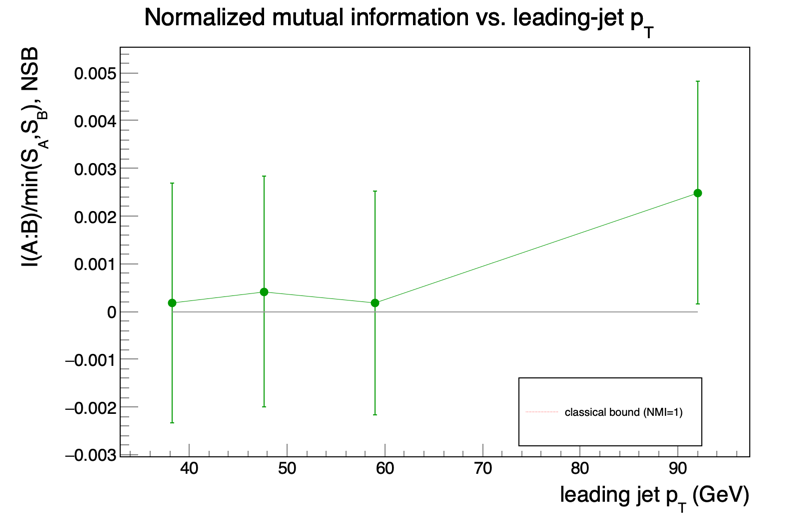
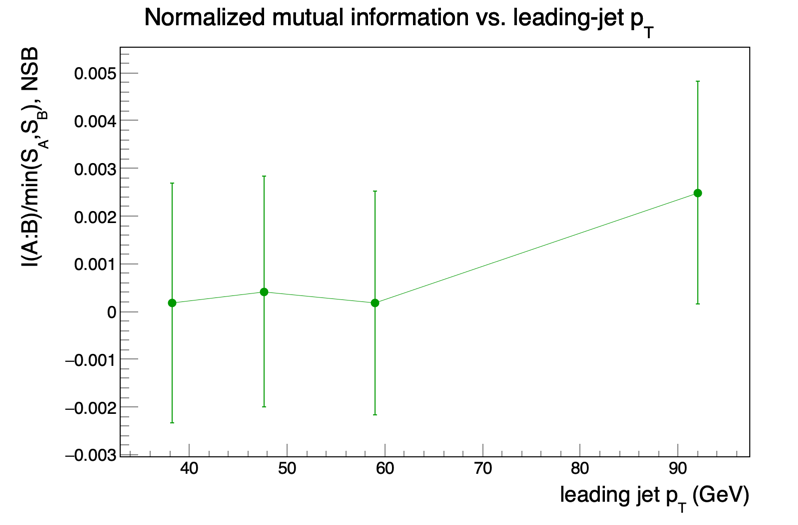
update with a run script

diff --git a/analysis/analyze_dijet_entropy.C b/analysis/analyze_dijet_entropy.C
@@ -895,7 +895,11 @@ void plotMethodComparisonVsPt(const std::vector<double>& ptMid,
     leg1->AddEntry(gS, "shuffle", "lep");
     leg1->AddEntry(gB, "NSB", "lep");
     leg1->Draw();
-    TLine* zeroLine1 = new TLine(ptMid.front()-span, 0, ptMid.back()+span, 0);
+    // Use the ACTUAL rendered x-axis range (queried after Draw), not a
+    // manually-estimated span -- guarantees the line spans exactly
+    // edge-to-edge with no overshoot or gap, regardless of how
+    // TMultiGraph auto-computed its x-range.
+    TLine* zeroLine1 = new TLine(gPad->GetUxmin(), 0, gPad->GetUxmax(), 0);
     zeroLine1->SetLineColor(kGray+1);
     zeroLine1->Draw();
     c1->SaveAs(outPrefix + "_method_comparison_MI_vs_pt.png");
@@ -933,7 +937,7 @@ void plotMethodComparisonVsPt(const std::vector<double>& ptMid,
     leg2->AddEntry(gM2, "Miller-Madow", "lep");
     leg2->AddEntry(gB2, "NSB", "lep");
     leg2->Draw();
-    TLine* zeroLine2 = new TLine(ptMid.front()-span, 0, ptMid.back()+span, 0);
+    TLine* zeroLine2 = new TLine(gPad->GetUxmin(), 0, gPad->GetUxmax(), 0);
     zeroLine2->SetLineColor(kRed);
     zeroLine2->SetLineStyle(3);
     zeroLine2->Draw();
@@ -990,7 +994,7 @@ void plotMethodComparisonNMIVsPt(const std::vector<double>& ptMid,
     leg->AddEntry(gM, "Miller-Madow", "lep");
     leg->AddEntry(gB, "NSB", "lep");
     leg->Draw();
-    TLine* oneLine = new TLine(ptMid.front()-span, 1, ptMid.back()+span, 1);
+    TLine* oneLine = new TLine(gPad->GetUxmin(), 1, gPad->GetUxmax(), 1);
     oneLine->SetLineColor(kRed);
     oneLine->SetLineStyle(3);
     oneLine->Draw();
@@ -1091,12 +1095,20 @@ void ptDifferentialAnalysis(const std::vector<int>& nA, const std::vector<int>& 
             yMin = std::min({yMin, S_A[i]-S_A_e[i], S_B[i]-S_B_e[i], S_AB[i]-S_AB_e[i]});
         }
         double range = yMax - yMin;
-        mg->SetMaximum(yMax + 0.30*range);
+        // Modest headroom only -- S_AB sits well above S_A/S_B across the
+        // whole pT range, leaving a large natural gap between them, so
+        // the legend goes there instead of needing extra top margin
+        // (previously 30%, which left roughly half the plot empty above
+        // the data for no real reason).
+        mg->SetMaximum(yMax + 0.08*range);
         mg->SetMinimum(yMin - 0.05*range);
     }
 
     mg->Draw("APL");
-    TLegend* leg1 = new TLegend(0.65, 0.7, 0.88, 0.88);
+    // Positioned in the empty band between the S_AB curve (high) and the
+    // S_A/S_B curves (low), rather than above everything -- avoids
+    // wasting vertical range on headroom purely for legend space.
+    TLegend* leg1 = new TLegend(0.38, 0.42, 0.65, 0.58);
     leg1->AddEntry(gA, "S_{A} (leading)", "lep");
     leg1->AddEntry(gB, "S_{B} (subleading)", "lep");
     leg1->AddEntry(gAB, "S_{AB} (joint)", "lep");
@@ -1110,6 +1122,9 @@ void ptDifferentialAnalysis(const std::vector<int>& nA, const std::vector<int>& 
     gI->SetLineColor(kViolet+1); gI->SetMarkerColor(kViolet+1); gI->SetMarkerStyle(20);
     gI->SetTitle("Mutual information vs. leading-jet p_{T};leading jet p_{T} (GeV);I(A:B) (nats), NSB");
     gI->Draw("APL");
+    TLine* zeroLineMI = new TLine(gPad->GetUxmin(), 0, gPad->GetUxmax(), 0);
+    zeroLineMI->SetLineColor(kGray+1);
+    zeroLineMI->Draw();
     c2->SaveAs(outPrefix + "_MI_vs_pt.png");
     std::cout << "  saved " << outPrefix << "_MI_vs_pt.png\n";
 
@@ -1119,7 +1134,7 @@ void ptDifferentialAnalysis(const std::vector<int>& nA, const std::vector<int>& 
     gSBA->SetLineColor(kMagenta+2); gSBA->SetMarkerColor(kMagenta+2); gSBA->SetMarkerStyle(20);
     gSBA->SetTitle("Conditional entropy vs. leading-jet p_{T};leading jet p_{T} (GeV);S(B|A) (nats), NSB");
     gSBA->Draw("APL");
-    TLine* zeroLine = new TLine(ptMid.front(), 0, ptMid.back(), 0);
+    TLine* zeroLine = new TLine(gPad->GetUxmin(), 0, gPad->GetUxmax(), 0);
     zeroLine->SetLineColor(kRed);
     zeroLine->SetLineStyle(3);
     zeroLine->Draw();
@@ -1132,16 +1147,14 @@ void ptDifferentialAnalysis(const std::vector<int>& nA, const std::vector<int>& 
     gNMI->SetLineColor(kGreen+2); gNMI->SetMarkerColor(kGreen+2); gNMI->SetMarkerStyle(20);
     gNMI->SetTitle("Normalized mutual information vs. leading-jet p_{T};leading jet p_{T} (GeV);I(A:B)/min(S_{A},S_{B}), NSB");
     gNMI->Draw("APL");
-    TLine* zeroLineNMI = new TLine(ptMid.front(), 0, ptMid.back(), 0);
+    TLine* zeroLineNMI = new TLine(gPad->GetUxmin(), 0, gPad->GetUxmax(), 0);
     zeroLineNMI->SetLineColor(kGray+1);
     zeroLineNMI->Draw();
-    TLine* oneLineNMI = new TLine(ptMid.front(), 1, ptMid.back(), 1);
-    oneLineNMI->SetLineColor(kRed);
-    oneLineNMI->SetLineStyle(3);
-    oneLineNMI->Draw();
-    TLegend* legNMI = new TLegend(0.65, 0.15, 0.88, 0.28);
-    legNMI->AddEntry(oneLineNMI, "classical bound (NMI=1)", "l");
-    legNMI->Draw();
+    // No legend here -- consistent with the standalone MI_vs_pt/SBA_vs_pt
+    // plots above, which likewise don't label their reference line. The
+    // classical bound (NMI=1) line itself is only drawn/labeled in the
+    // multi-method comparison plot, where a legend already exists for
+    // the data series and the bound fits naturally alongside it.
     c4->SaveAs(outPrefix + "_NMI_vs_pt.png");
     std::cout << "  saved " << outPrefix << "_NMI_vs_pt.png\n";
 
